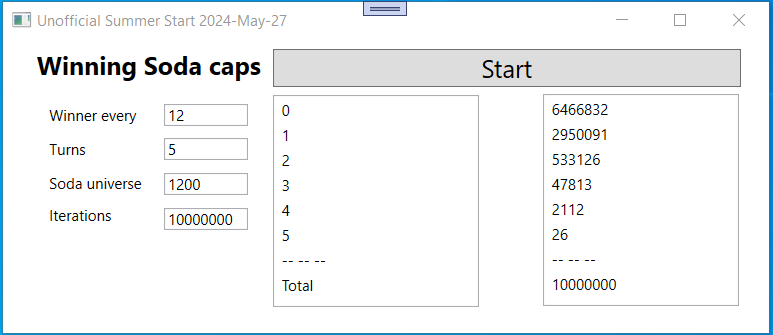
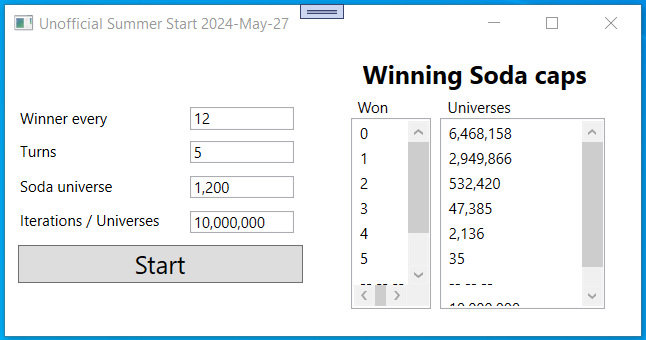
Formatting

diff --git a/2024May27_SummerStart/MainWindow.xaml b/2024May27_SummerStart/MainWindow.xaml
@@ -5,28 +5,26 @@
         xmlns:mc="http://schemas.openxmlformats.org/markup-compatibility/2006"
         xmlns:local="clr-namespace:_2024May27_SummerStart"
         mc:Ignorable="d"
-        Title="Unofficial Summer Start 2024-May-27" Height="273" Width="627">
-    <Grid HorizontalAlignment="Left" Width="612" Margin="22,0,0,0">
+        Title="Unofficial Summer Start 2024-May-27" Height="273" Width="523">
+    <Grid HorizontalAlignment="Left" Width="554" Margin="0,0,0,0">
         <Grid.ColumnDefinitions>
+            <ColumnDefinition Width="33*"/>
+            <ColumnDefinition Width="480*"/>
             <ColumnDefinition Width="41*"/>
-            <ColumnDefinition Width="526*"/>
-            <ColumnDefinition Width="45*"/>
         </Grid.ColumnDefinitions>
-        <Button x:Name="btnStart" Content="Start" HorizontalAlignment="Left" Margin="153,8,0,0" VerticalAlignment="Top" Click="btnStart_Click" Width="374" FontSize="20" Grid.ColumnSpan="2" Grid.Column="1"/>
-        <ListBox x:Name="lstBoxChoices" d:ItemsSource="{d:SampleData ItemCount=5}" Margin="153,45,0,21" HorizontalAlignment="Left" Width="165" Grid.Column="1"/>
-        <ListBox x:Name="lstBoxWinnerCount" d:ItemsSource="{d:SampleData ItemCount=5}" Margin="0,44,45,22" HorizontalAlignment="Right" Width="157" Grid.ColumnSpan="2" Grid.Column="1"/>
-        <Label Content="Winning Soda caps" HorizontalAlignment="Left" Margin="0,2,0,0" VerticalAlignment="Top" FontSize="20" FontWeight="Bold" Grid.ColumnSpan="2"/>
-        <Grid x:Name="gridInput" Grid.ColumnSpan="2" HorizontalAlignment="Left" Height="106" Margin="10,48,0,0" VerticalAlignment="Top" Width="164">
-            <TextBox x:Name="txtWinnerEvery" HorizontalAlignment="Left" Margin="97,4,0,0" TextWrapping="Wrap" Text="6" VerticalAlignment="Top" Width="67" />
-            <Label Content="Winner every" HorizontalAlignment="Left" VerticalAlignment="Top"/>
-            <TextBox x:Name="txtTurns" HorizontalAlignment="Left" Margin="97,31,0,0" TextWrapping="Wrap" Text="3" VerticalAlignment="Top" Width="67"/>
-            <Label Content="Turns" HorizontalAlignment="Left" Margin="0,27,0,0" VerticalAlignment="Top"/>
-            <TextBox x:Name="txtUniverse" HorizontalAlignment="Left" Margin="97,59,0,0" TextWrapping="Wrap" Text="1200" VerticalAlignment="Top" Width="67"/>
-            <Label Content="Soda universe" HorizontalAlignment="Left" Margin="0,54,0,0" VerticalAlignment="Top"/>
-            <TextBox x:Name="txtIterations" HorizontalAlignment="Left" Margin="97,87,0,0" TextWrapping="Wrap" Text="100000" VerticalAlignment="Top" Width="67"/>
-            <Label Content="Iterations" HorizontalAlignment="Left" Margin="0,80,0,0" VerticalAlignment="Top"/>
-
-        </Grid>
-
+        <Button x:Name="btnStart" Content="Start" HorizontalAlignment="Left" Margin="10,162,0,0" VerticalAlignment="Top" Click="btnStart_Click" Width="228" FontSize="20" Grid.ColumnSpan="2" Height="31"/>
+        <ListBox x:Name="lstBoxChoices" d:ItemsSource="{d:SampleData ItemCount=5}" Margin="244,61,0,22" HorizontalAlignment="Left" Width="64" Grid.Column="1"/>
+        <ListBox x:Name="lstBoxWinnerCount" d:ItemsSource="{d:SampleData ItemCount=5}" Margin="0,61,33,22" HorizontalAlignment="Right" Width="132" Grid.Column="1"/>
+        <Label Content="Winning Soda caps" HorizontalAlignment="Left" Margin="248,7,0,0" VerticalAlignment="Top" FontSize="20" FontWeight="Bold" Grid.Column="1" Height="37" Width="189"/>
+        <TextBox x:Name="txtWinnerEvery" HorizontalAlignment="Left" TextWrapping="Wrap" Text="6" VerticalAlignment="Top" Width="83" Grid.Column="1" Margin="115,52,0,0" Height="18" />
+        <Label Content="Winner every" HorizontalAlignment="Left" VerticalAlignment="Top" Grid.ColumnSpan="2" Margin="7,48,0,0" Height="26" Width="80"/>
+        <TextBox x:Name="txtTurns" HorizontalAlignment="Left" TextWrapping="Wrap" Text="3" VerticalAlignment="Top" Width="83" Grid.Column="1" Margin="115,79,0,0" Height="18"/>
+        <TextBox x:Name="txtUniverse" HorizontalAlignment="Left" TextWrapping="Wrap" Text="1,200" VerticalAlignment="Top" Width="83" Grid.Column="1" Margin="115,107,0,0" Height="18"/>
+        <Label Content="Soda universe" HorizontalAlignment="Left" VerticalAlignment="Top" Margin="7,102,0,0" Grid.ColumnSpan="2" Height="26" Width="84"/>
+        <TextBox x:Name="txtIterations" HorizontalAlignment="Left" TextWrapping="Wrap" Text="100,000" VerticalAlignment="Top" Width="83" Grid.Column="1" Margin="115,135,0,0" Height="18"/>
+        <Label Content="Iterations / Universes" HorizontalAlignment="Left" VerticalAlignment="Top" Margin="7,129,0,0" Grid.ColumnSpan="2" Height="26" Width="122"/>
+        <Label Content="Turns" HorizontalAlignment="Left" VerticalAlignment="Top" Grid.ColumnSpan="2" Margin="7,74,0,0" Height="26" Width="80"/>
+        <Label Content="Won" HorizontalAlignment="Left" VerticalAlignment="Top" Margin="244,39,0,0" Height="26" Width="80" Grid.Column="1"/>
+        <Label Content="Universes" HorizontalAlignment="Left" VerticalAlignment="Top" Margin="316,39,0,0" Height="26" Width="80" Grid.Column="1"/>
     </Grid>
 </Window>

diff --git a/2024May27_SummerStart/MainWindow.xaml.cs b/2024May27_SummerStart/MainWindow.xaml.cs
@@ -1,4 +1,5 @@
-using System.Text;
+using System.Globalization;
+using System.Text;
 using System.Windows;
 using System.Windows.Controls;
 using System.Windows.Data;
@@ -27,11 +28,11 @@ namespace _2024May27_SummerStart
         {
             ISummerStart ss = new UnofficialSummerStart()
             {
-                WinnerEvery = int.Parse(txtWinnerEvery.Text),
-                Turns = int.Parse(txtTurns.Text),
+                WinnerEvery = GetInt(txtWinnerEvery),
+                Turns = GetInt(txtTurns),
 
-                TotalCaps = int.Parse(txtUniverse.Text),
-                Iterations = int.Parse(txtIterations.Text)
+                TotalCaps = GetInt(txtUniverse),
+                Iterations = GetInt(txtIterations)
             };
             ss.Start();
 
@@ -48,14 +49,14 @@ namespace _2024May27_SummerStart
             for (int i = 0; i < winnerCounts.Count; i++)
             {
                 lstBoxChoices.Items.Add(i);
-                lstBoxWinnerCount.Items.Add(winnerCounts[i]);
+                lstBoxWinnerCount.Items.Add($"{winnerCounts[i]:n0}");
                 total += winnerCounts[i];
             }
 
             lstBoxChoices.Items.Add("-- -- --");
             lstBoxWinnerCount.Items.Add("-- -- --");
             lstBoxChoices.Items.Add("Total");
-            lstBoxWinnerCount.Items.Add(total);
+            lstBoxWinnerCount.Items.Add($"{total:n0}");
         }
 
         public void ShowResultDetail(ICollection<ICollection<Cap>> collectionOfChosenCollections)
@@ -72,9 +73,22 @@ namespace _2024May27_SummerStart
             }
         }
 
-        private void txtWinnerEvery_TextChanged(object sender, TextChangedEventArgs e)
+        private int GetInt(TextBox txtBox)
         {
+            decimal parsedNumber = 0;
+            //decimal.TryParse(txtBox.Text,
+            //    NumberStyles.AllowThousands | NumberStyles.AllowDecimalPoint,
+            //    CultureInfo.InvariantCulture,
+            //    out parsedNumber);
+            decimal.TryParse(txtBox.Text,
+                NumberStyles.Number,
+                CultureInfo.InvariantCulture.NumberFormat,
+                out parsedNumber);
+            if (parsedNumber < 0) parsedNumber = 0;
+            int parsedInt = (int)Math.Floor(parsedNumber);
 
+            txtBox.Text = $"{parsedInt:n0}";
+            return parsedInt;
         }
     }
 }
